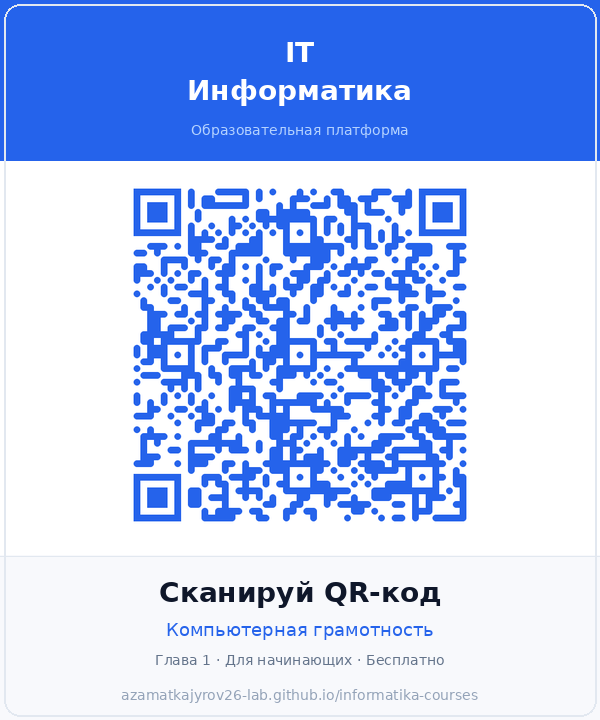
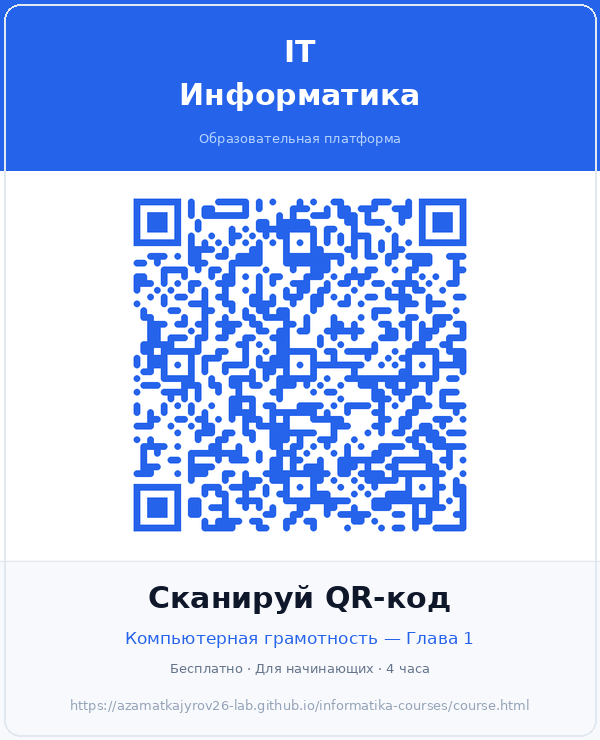
Add CTA contact form with Telegram bot integration
- CTA form on index.html and course.html (name + phone)
- js/telegram.js: sends data to Telegram bot API
- Updated QR code pointing to GitHub Pages course URL
- Form validation, loading state, success screen

Changed region(s): [[0.0, 0.0917, 1.0, 0.7333], [0.12, 0.7944, 0.87, 0.9778], [0.48, 0.0306, 0.54, 0.0917]]

diff --git a/css/style.css b/css/style.css
@@ -886,6 +886,143 @@ footer {
 .footer-col a:hover { color: var(--blue); }
 .footer-bottom { border-top: 1px solid var(--border); padding-top: 20px; font-size: 0.78rem; color: var(--text-4); display: flex; flex-direction: column; gap: 4px; }
 
+/* ===== CTA FORM SECTION ===== */
+.cta-section {
+  padding: 56px 0;
+  background: var(--bg-white);
+  border-top: 1px solid var(--border);
+}
+.cta-section-inner {
+  max-width: 540px;
+  margin: 0 auto;
+  padding: 0 20px;
+  text-align: center;
+}
+.cta-kicker {
+  display: inline-flex;
+  align-items: center;
+  gap: 6px;
+  background: var(--blue-light);
+  color: var(--blue);
+  border: 1px solid var(--blue-mid);
+  border-radius: 100px;
+  padding: 5px 14px;
+  font-size: 0.75rem;
+  font-weight: 700;
+  letter-spacing: .3px;
+  margin-bottom: 16px;
+}
+.cta-section h2 {
+  font-size: clamp(1.4rem, 4vw, 1.9rem);
+  font-weight: 800;
+  letter-spacing: -.02em;
+  color: var(--text);
+  margin-bottom: 10px;
+  line-height: 1.25;
+}
+.cta-section h2 span { color: var(--blue); }
+.cta-section p {
+  font-size: 0.925rem;
+  color: var(--text-3);
+  line-height: 1.7;
+  margin-bottom: 28px;
+}
+.cta-form {
+  display: flex;
+  flex-direction: column;
+  gap: 12px;
+  text-align: left;
+}
+.form-row { display: flex; flex-direction: column; gap: 12px; }
+.form-group { display: flex; flex-direction: column; gap: 6px; }
+.form-label {
+  font-size: 0.8rem;
+  font-weight: 600;
+  color: var(--text-2);
+}
+.form-input {
+  width: 100%;
+  padding: 13px 16px;
+  border: 1px solid var(--border);
+  border-radius: 10px;
+  font-size: 0.925rem;
+  font-family: var(--font);
+  color: var(--text);
+  background: var(--bg);
+  transition: var(--transition);
+  outline: none;
+  min-height: 48px;
+}
+.form-input:focus { border-color: var(--blue); background: var(--bg-white); box-shadow: 0 0 0 3px rgba(37,99,235,.1); }
+.form-input::placeholder { color: var(--text-4); }
+.form-input.error { border-color: var(--red); box-shadow: 0 0 0 3px rgba(220,38,38,.1); }
+.form-hint { font-size: 0.75rem; color: var(--text-4); }
+.form-error-msg { font-size: 0.78rem; color: var(--red); font-weight: 500; display: none; }
+.form-error-msg.show { display: block; }
+
+.btn-submit {
+  display: flex;
+  align-items: center;
+  justify-content: center;
+  gap: 8px;
+  width: 100%;
+  padding: 15px 24px;
+  background: var(--blue);
+  color: #fff;
+  border: none;
+  border-radius: 10px;
+  font-size: 1rem;
+  font-weight: 700;
+  font-family: var(--font);
+  cursor: pointer;
+  transition: var(--transition);
+  min-height: 52px;
+}
+.btn-submit:hover { background: #1d4ed8; transform: translateY(-1px); box-shadow: 0 4px 16px rgba(37,99,235,.3); }
+.btn-submit:active { transform: scale(.98); }
+.btn-submit:disabled { opacity: .6; cursor: not-allowed; transform: none; }
+.btn-submit svg { width: 18px; height: 18px; flex-shrink: 0; }
+.btn-submit .spinner {
+  width: 18px; height: 18px;
+  border: 2px solid rgba(255,255,255,.4);
+  border-top-color: #fff;
+  border-radius: 50%;
+  animation: spin .7s linear infinite;
+  flex-shrink: 0;
+}
+@keyframes spin { to { transform: rotate(360deg); } }
+
+.form-privacy {
+  text-align: center;
+  font-size: 0.73rem;
+  color: var(--text-4);
+  margin-top: 4px;
+}
+
+/* SUCCESS STATE */
+.form-success {
+  display: none;
+  flex-direction: column;
+  align-items: center;
+  gap: 12px;
+  padding: 32px 24px;
+  background: var(--green-light);
+  border: 1px solid #bbf7d0;
+  border-radius: 16px;
+  text-align: center;
+}
+.form-success.show { display: flex; }
+.form-success-icon {
+  width: 56px; height: 56px;
+  background: var(--green);
+  border-radius: 50%;
+  display: flex; align-items: center; justify-content: center;
+  color: #fff;
+  font-size: 1.5rem;
+}
+.form-success h3 { font-size: 1.1rem; font-weight: 700; color: #166534; }
+.form-success p { font-size: 0.875rem; color: #166534; opacity: .8; }
+
 /* ===== BACK TO TOP ===== */
 .back-top {
   position: fixed;

diff --git a/js/telegram.js b/js/telegram.js
@@ -1,0 +1,101 @@
+// ===== TELEGRAM BOT CONFIG =====
+// Замени значения после получения у @BotFather и @userinfobot
+const TG_TOKEN   = 'СЮДА_ВСТАВЬ_BOT_TOKEN';   // пример: 7412345678:AAHxyz...
+const TG_CHAT_ID = 'СЮДА_ВСТАВЬ_CHAT_ID';     // пример: 123456789
+
+// ===== FORM HANDLER =====
+document.addEventListener('DOMContentLoaded', () => {
+  const form       = document.getElementById('ctaForm');
+  if (!form) return;
+
+  const nameInput  = document.getElementById('ctaName');
+  const phoneInput = document.getElementById('ctaPhone');
+  const submitBtn  = document.getElementById('ctaSubmit');
+  const successBox = document.getElementById('ctaSuccess');
+  const nameErr    = document.getElementById('nameError');
+  const phoneErr   = document.getElementById('phoneError');
+
+  function validate() {
+    let ok = true;
+    if (!nameInput.value.trim() || nameInput.value.trim().length < 2) {
+      nameInput.classList.add('error');
+      nameErr.classList.add('show');
+      ok = false;
+    } else {
+      nameInput.classList.remove('error');
+      nameErr.classList.remove('show');
+    }
+    const phone = phoneInput.value.trim().replace(/\s/g, '');
+    if (!phone || phone.length < 7) {
+      phoneInput.classList.add('error');
+      phoneErr.classList.add('show');
+      ok = false;
+    } else {
+      phoneInput.classList.remove('error');
+      phoneErr.classList.remove('show');
+    }
+    return ok;
+  }
+
+  nameInput.addEventListener('input', () => {
+    if (nameInput.value.trim().length >= 2) {
+      nameInput.classList.remove('error');
+      nameErr.classList.remove('show');
+    }
+  });
+  phoneInput.addEventListener('input', () => {
+    if (phoneInput.value.trim().length >= 7) {
+      phoneInput.classList.remove('error');
+      phoneErr.classList.remove('show');
+    }
+  });
+
+  form.addEventListener('submit', async (e) => {
+    e.preventDefault();
+    if (!validate()) return;
+
+    const name  = nameInput.value.trim();
+    const phone = phoneInput.value.trim();
+    const page  = document.title;
+    const time  = new Date().toLocaleString('ru-RU', { timeZone: 'Asia/Almaty' });
+
+    const text = [
+      '📩 <b>Новая заявка с сайта Информатика</b>',
+      '',
+      `👤 <b>Имя:</b> ${name}`,
+      `📞 <b>Телефон:</b> ${phone}`,
+      `📖 <b>Страница:</b> ${page}`,
+      `🕐 <b>Время:</b> ${time}`,
+      `🌐 <b>Сайт:</b> https://azamatkajyrov26-lab.github.io/informatika-courses/`,
+    ].join('\n');
+
+    // Loading state
+    submitBtn.disabled = true;
+    submitBtn.innerHTML = '<span class="spinner"></span> Отправка...';
+
+    try {
+      const res = await fetch(
+        `https://api.telegram.org/bot${TG_TOKEN}/sendMessage`,
+        {
+          method: 'POST',
+          headers: { 'Content-Type': 'application/json' },
+          body: JSON.stringify({ chat_id: TG_CHAT_ID, text, parse_mode: 'HTML' }),
+        }
+      );
+      const data = await res.json();
+      if (data.ok) {
+        form.style.display = 'none';
+        successBox.classList.add('show');
+      } else {
+        throw new Error(data.description || 'Ошибка');
+      }
+    } catch (err) {
+      submitBtn.disabled = false;
+      submitBtn.innerHTML = `
+        <svg viewBox="0 0 24 24" fill="none" stroke="currentColor" stroke-width="2"><line x1="22" y1="2" x2="11" y2="13"/><polygon points="22 2 15 22 11 13 2 9 22 2"/></svg>
+        Оставить контакты`;
+      alert('Ошибка отправки. Проверьте Bot Token и Chat ID в js/telegram.js');
+      console.error(err);
+    }
+  });
+});

diff --git a/index.html b/index.html
@@ -230,6 +230,45 @@
     </div>
   </div>
 
+  <!-- CTA SECTION -->
+  <section class="cta-section" aria-label="Оставить контакты">
+    <div class="cta-section-inner">
+      <div class="cta-kicker" aria-hidden="true">
+        <svg width="12" height="12" viewBox="0 0 24 24" fill="none" stroke="currentColor" stroke-width="2"><line x1="22" y1="2" x2="11" y2="13"/><polygon points="22 2 15 22 11 13 2 9 22 2"/></svg>
+        Связаться с нами
+      </div>
+      <h2>Есть вопросы? <span>Напишем вам</span></h2>
+      <p>Оставь имя и номер телефона — мы свяжемся и поможем выбрать подходящий курс.</p>
+
+      <form class="cta-form" id="ctaForm" novalidate aria-label="Форма обратной связи">
+        <div class="form-row">
+          <div class="form-group">
+            <label class="form-label" for="ctaName">Ваше имя *</label>
+            <input class="form-input" id="ctaName" type="text" placeholder="Азамат" autocomplete="given-name" required aria-required="true" aria-describedby="nameError">
+            <span class="form-error-msg" id="nameError" role="alert">Введите имя (минимум 2 символа)</span>
+          </div>
+          <div class="form-group">
+            <label class="form-label" for="ctaPhone">Телефон или Telegram *</label>
+            <input class="form-input" id="ctaPhone" type="tel" placeholder="+7 700 000 00 00" autocomplete="tel" required aria-required="true" aria-describedby="phoneError">
+            <span class="form-error-msg" id="phoneError" role="alert">Введите корректный номер</span>
+            <span class="form-hint">Можно написать @username Telegram</span>
+          </div>
+        </div>
+        <button class="btn-submit" id="ctaSubmit" type="submit">
+          <svg viewBox="0 0 24 24" fill="none" stroke="currentColor" stroke-width="2" aria-hidden="true"><line x1="22" y1="2" x2="11" y2="13"/><polygon points="22 2 15 22 11 13 2 9 22 2"/></svg>
+          Оставить контакты
+        </button>
+        <p class="form-privacy">🔒 Данные не передаются третьим лицам</p>
+      </form>
+
+      <div class="form-success" id="ctaSuccess" role="alert" aria-live="polite">
+        <div class="form-success-icon" aria-hidden="true">✓</div>
+        <h3>Заявка отправлена!</h3>
+        <p>Мы получили ваши данные и свяжемся с вами в ближайшее время.</p>
+      </div>
+    </div>
+  </section>
+
   <footer role="contentinfo">
     <div class="footer-inner">
       <div class="footer-top">
@@ -275,5 +314,6 @@
   </button>
 
   <script src="js/main.js"></script>
+  <script src="js/telegram.js"></script>
 </body>
 </html>

diff --git a/course.html b/course.html
@@ -467,6 +467,45 @@
     </main>
   </div>
 
+  <!-- CTA SECTION -->
+  <section class="cta-section" aria-label="Оставить контакты">
+    <div class="cta-section-inner">
+      <div class="cta-kicker" aria-hidden="true">
+        <svg width="12" height="12" viewBox="0 0 24 24" fill="none" stroke="currentColor" stroke-width="2"><line x1="22" y1="2" x2="11" y2="13"/><polygon points="22 2 15 22 11 13 2 9 22 2"/></svg>
+        Остались вопросы?
+      </div>
+      <h2>Мы на <span>связи</span></h2>
+      <p>Оставь контакты — поможем разобраться с материалом или выбрать следующий курс.</p>
+
+      <form class="cta-form" id="ctaForm" novalidate aria-label="Форма обратной связи">
+        <div class="form-row">
+          <div class="form-group">
+            <label class="form-label" for="ctaName">Ваше имя *</label>
+            <input class="form-input" id="ctaName" type="text" placeholder="Азамат" autocomplete="given-name" required aria-required="true" aria-describedby="nameError">
+            <span class="form-error-msg" id="nameError" role="alert">Введите имя (минимум 2 символа)</span>
+          </div>
+          <div class="form-group">
+            <label class="form-label" for="ctaPhone">Телефон или Telegram *</label>
+            <input class="form-input" id="ctaPhone" type="tel" placeholder="+7 700 000 00 00" autocomplete="tel" required aria-required="true" aria-describedby="phoneError">
+            <span class="form-error-msg" id="phoneError" role="alert">Введите корректный номер</span>
+            <span class="form-hint">Можно написать @username Telegram</span>
+          </div>
+        </div>
+        <button class="btn-submit" id="ctaSubmit" type="submit">
+          <svg viewBox="0 0 24 24" fill="none" stroke="currentColor" stroke-width="2" aria-hidden="true"><line x1="22" y1="2" x2="11" y2="13"/><polygon points="22 2 15 22 11 13 2 9 22 2"/></svg>
+          Оставить контакты
+        </button>
+        <p class="form-privacy">🔒 Данные не передаются третьим лицам</p>
+      </form>
+
+      <div class="form-success" id="ctaSuccess" role="alert" aria-live="polite">
+        <div class="form-success-icon" aria-hidden="true">✓</div>
+        <h3>Заявка отправлена!</h3>
+        <p>Мы получили ваши данные и свяжемся с вами в ближайшее время.</p>
+      </div>
+    </div>
+  </section>
+
   <footer role="contentinfo">
     <div class="footer-inner">
       <div class="footer-top">
@@ -509,5 +548,6 @@
   </button>
 
   <script src="js/main.js"></script>
+  <script src="js/telegram.js"></script>
 </body>
 </html>

diff --git a/stem.html b/stem.html
@@ -669,5 +669,6 @@
   </button>
 
   <script src="js/main.js"></script>
+  <script src="js/telegram.js"></script>
 </body>
 </html>
